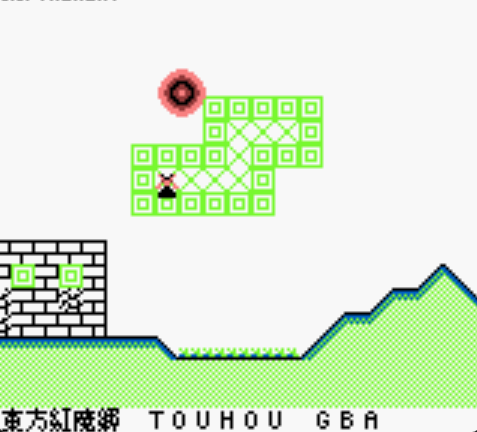
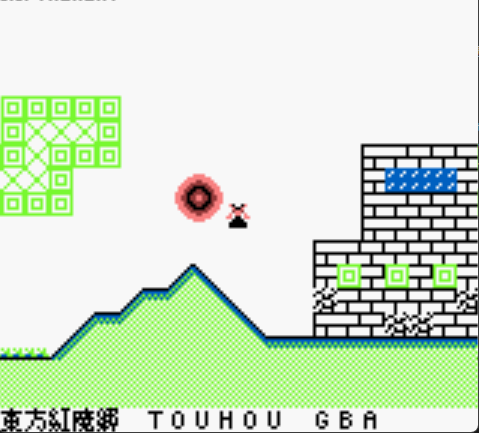
edited readme

diff --git a/README.md b/README.md
@@ -17,22 +17,24 @@ This is a place where I attempt to learn making GB and GBA games and ultimately 
 
 ## Progress～进度
 - GB (Learning)<br/>Gameboy 学习
-  - Hello World √<br/>初始 √
-  - Sprite Test √<br/>贴图测试 √
-  - Moving Test √<br/>移动测试 √
-  - Background Test √<br/>背景测试 √
-  - Sound Test √<br/>声音测试 √
-  - Window Layout Test √<br/>窗体测试 √
-  - Noise Test √<br/>噪声测试 √
-  - Jumping Test √<br/>跳跃测试 √
-  - Metasprite Test √<br/>复合贴图测试 √
-  - Sprite Collision Test √<br/>贴图碰撞测试 √
-  - Background Collision Test √<br/>背景碰撞测试 √
+  1. Hello World √<br/>初始 √
+  2. Sprite Test √<br/>贴图测试 √
+  3. Moving Test √<br/>移动测试 √
+  4. Background Test √<br/>背景测试 √
+  5. Sound Test √<br/>声音测试 √
+  6. Window Layout Test √<br/>窗体测试 √
+  7. Noise Test √<br/>噪声测试 √
+  8. Jumping Test √<br/>跳跃测试 √
+  9. Metasprite Test √<br/>复合贴图测试 √
+  10. Sprite Collision Test √<br/>贴图碰撞测试 √
+  11. Background Collision Test √<br/>背景碰撞测试 √
+  12. Splashscreen Test √<br/>启动界面测试 √
   - To Be Continued...<br/>少女折寿中...
 - GB (Game)<br/>Gameboy 游戏
 - GBA (Learning)<br/>GBA 学习
 - GBA (Game)<br/>GBA 游戏
 ## Screenshot～截图
+![splash.png](img/splash.png)
 ![test.png](img/test.png)
 
 ## Characters～自機紹介
